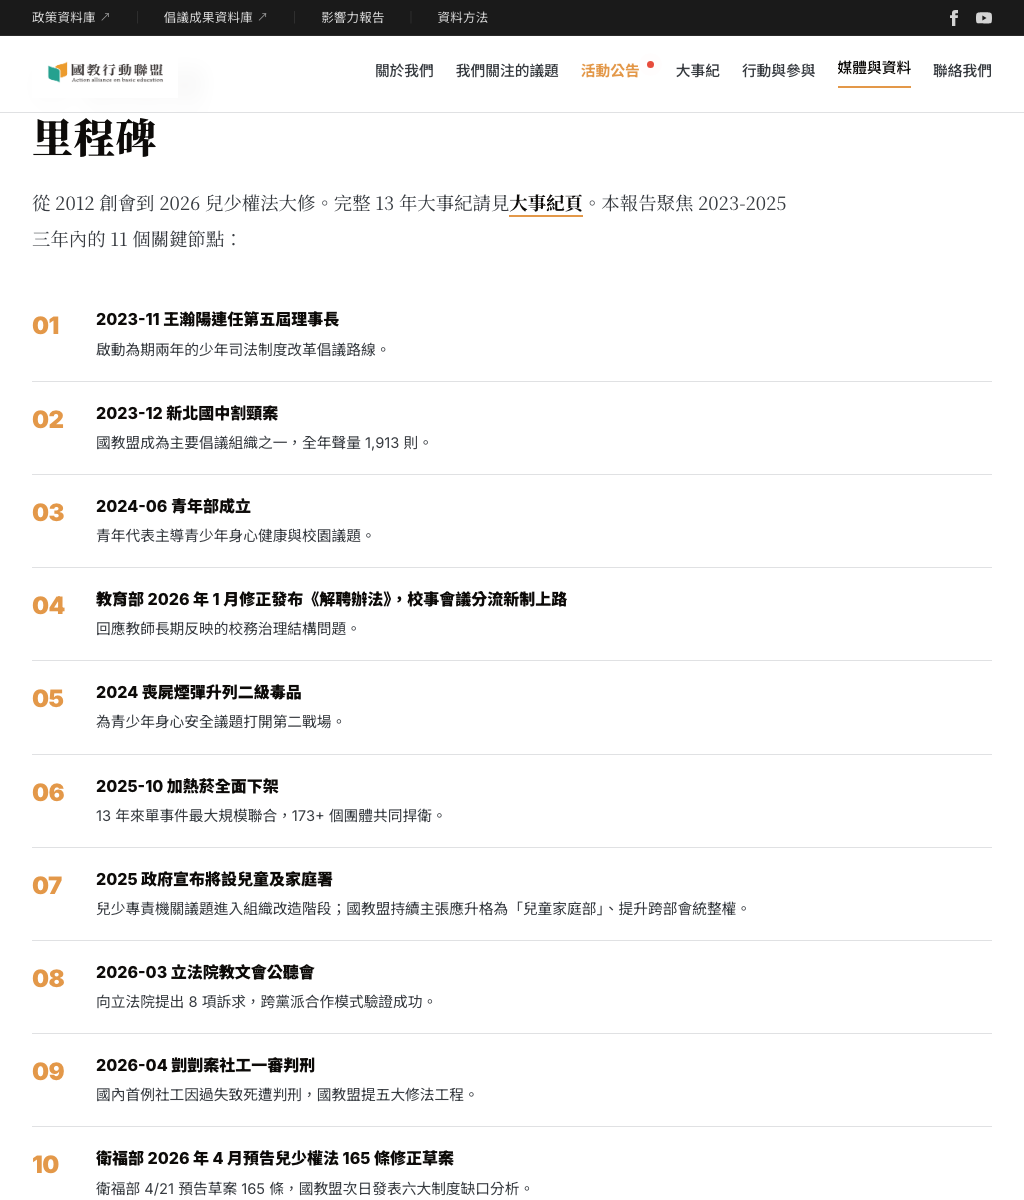
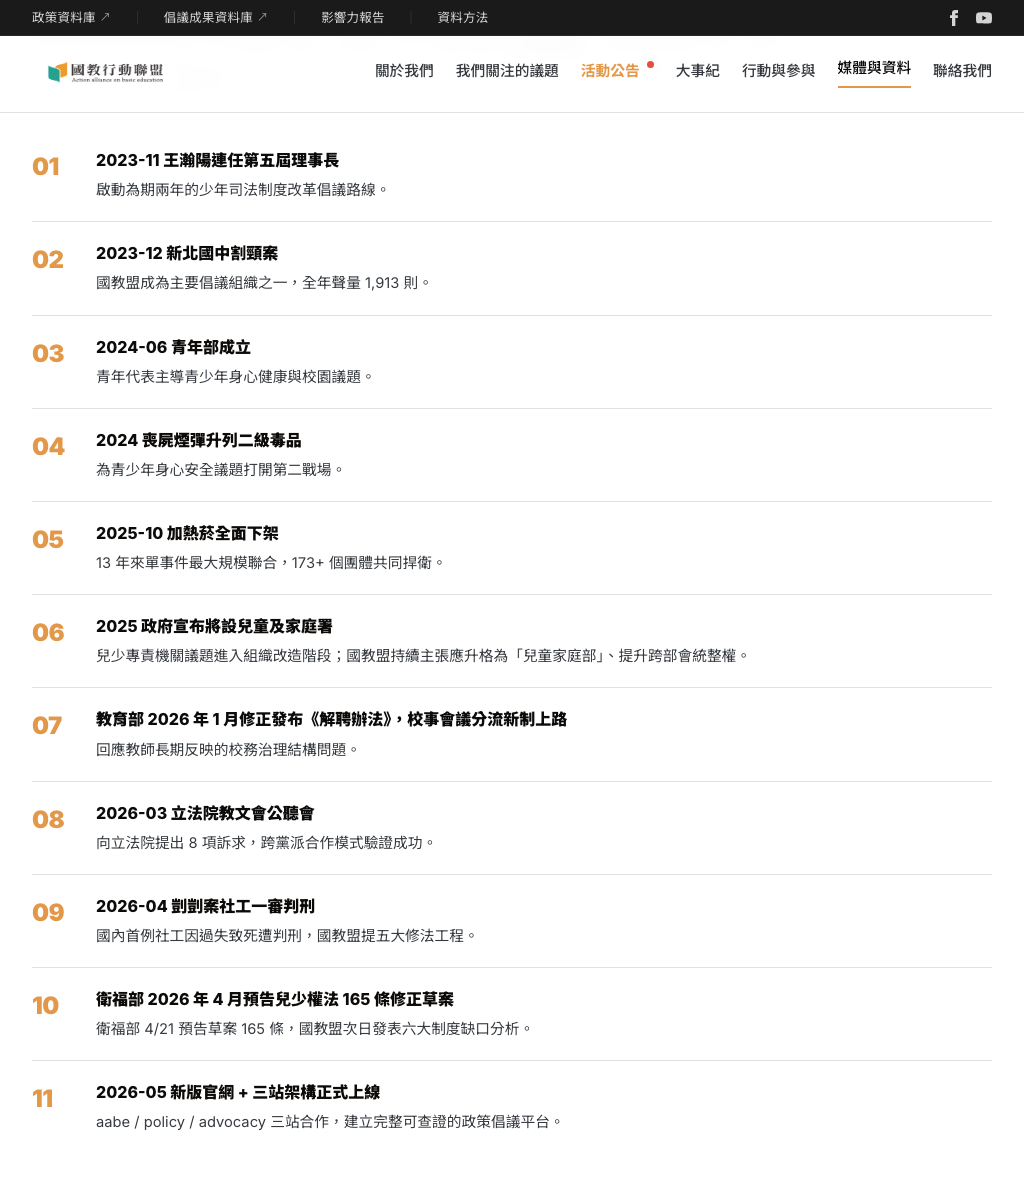
impact: 校事會議敘述七處同步降級並重排里程碑時序
依理事長裁決：impact/index.html 剩餘 7 處「校事會議修法三讀／完成修法
（2024）」同型錯誤，口徑統一改為「教育部 2026 年 1 月修正發布《解聘
辦法》，校事會議分流新制上路」，年份改 2026：

- :8  meta description「校事會議修法」→「校事會議分流新制」
- :551 影響力報告 lead「校事會議完成修法」→「校事會議分流新制上路」
- :606 Ch01 導言「這條路串接起 2024 校事會議修法、2025 加熱菸下架」
  →「這條路串接起 2025 加熱菸下架、2026 年校事會議分流新制」
  （順帶把子句改成時間單調：2025 在 2026 之前）
- :631-632 年度敘事卡「2024」card：查無 2024 年校事會議倡議活動紀錄
  （本盟該案首倡於 2025-11-19），故不強行掛上 2026 年事實到 2024
  年度卡——直接移除該卡對校事會議的提及，標題改「喪屍煙彈升二級
  毒品．青年部成立」，內文只留 2024 年確有發生的兩件事（喪屍煙彈
  升列二級毒品、6 月青年部成立），避免無中生有
- :749 六大議題卡摘要「2024 完成校事會議修法」→「教育部 2026 年 1 月
  修正發布《解聘辦法》，校事會議分流新制上路」
- :751 六大議題卡條列「校事會議修法三讀通過（2024）」→「教育部修正
  發布《解聘辦法》，校事會議分流新制上路（2026）」

里程碑清單（Ch05，11 個節點）重新依實際日期排序，讓時間單調遞增，
編號跟著調（原 04 移到 07，其餘不動）：
01 2023-11 王瀚陽連任第五屆理事長
02 2023-12 新北國中割頸案
03 2024-06 青年部成立
04 2024    喪屍煙彈升列二級毒品
05 2025-10 加熱菸全面下架
06 2025    政府宣布將設兒童及家庭署
07 2026-01 教育部修正發布《解聘辦法》，校事會議分流新制上路（原 04）
08 2026-03 立法院教文會公聽會
09 2026-04 剴剴案社工一審判刑
10 2026-04 衛福部預告兒少權法 165 條修正草案
11 2026-05 新版官網 + 三站架構正式上線

已驗證：pytest 158 passed（deselect
test_markup.py::test_copy_text_untouched[index.html] 與
[impact/index.html] 同前兩條）；numbers_check.py --root public 全部
相符（本輪未觸及任何 numbers.json 追蹤的數字上下文，未需
--update-allowlist）；JSON-LD 2/2 區塊仍為合法 JSON；`<li>` 標籤數與
改動前一致（44 開/36 閉，HTML5 選擇性閉合標籤，非本次引入）；里程碑
清單與 2024 年度卡截圖見
_source/審查/第一批截圖/impact_里程碑清單.png、impact_2024年度卡.png。
沒驗：里程碑清單以外，頁面是否還有其他隱性依賴原 01-11 順序的錨點
連結（例如 #chronology 這類跳轉），未逐一排查。

diff --git a/public/impact/index.html b/public/impact/index.html
@@ -5,7 +5,7 @@
   <meta name="viewport" content="width=device-width, initial-scale=1">
 
   <title>2023-2025 影響力報告｜國教行動聯盟 Impact Report</title>
-  <meta name="description" content="國教行動聯盟（AABE）2023-2025 三年完整影響力報告：168+ 合作組織、113 篇新聞稿、286 場行動、7,917+ 媒體聲量、19 位跨黨派立委合作。從新北割頸案、校事會議修法、加熱菸下架、兒少專責機關組改，到兒少權法 15 年大修。">
+  <meta name="description" content="國教行動聯盟（AABE）2023-2025 三年完整影響力報告：168+ 合作組織、113 篇新聞稿、286 場行動、7,917+ 媒體聲量、19 位跨黨派立委合作。從新北割頸案、校事會議分流新制、加熱菸下架、兒少專責機關組改，到兒少權法 15 年大修。">
   <meta name="keywords" content="國教行動聯盟,AABE,影響力報告,2023-2025,Impact Report,倡議成果,新北割頸案,校事會議,加熱菸,兒童家庭部">
   <meta name="robots" content="index,follow,max-image-preview:large">
 
@@ -548,7 +548,7 @@
     <span class="kicker">Impact Report · 2023 — 2025</span>
     <h1>從沉默<br>到<span class="accent">改變</span></h1>
     <div class="subtitle">A Three-Year Impact Report</div>
-    <p class="lead">三年內，新北割頸案震驚社會、校事會議完成修法、加熱菸全面下架、政府宣布將設兒童及家庭署、向立法院提出 8 項訴求、兒少權法迎來 15 年大修。<strong>家庭擔憂如何轉化為國家政策？</strong>這份報告，是 168+ 個跨領域組織、113 篇新聞稿、286 場行動、7,917+ 則媒體聲量共同寫成的答案。</p>
+    <p class="lead">三年內，新北割頸案震驚社會、校事會議分流新制上路、加熱菸全面下架、政府宣布將設兒童及家庭署、向立法院提出 8 項訴求、兒少權法迎來 15 年大修。<strong>家庭擔憂如何轉化為國家政策？</strong>這份報告，是 168+ 個跨領域組織、113 篇新聞稿、286 場行動、7,917+ 則媒體聲量共同寫成的答案。</p>
     <div class="meta">2026-05-14 發布 · 涵蓋 2023.01 — 2025.12</div>
   </section>
 
@@ -603,7 +603,7 @@
       <span class="ch-title">Three-Year Story</span>
     </div>
     <h2>從危機<span class="accent">到改革</span><br>三年的政策轉化路徑</h2>
-    <p class="intro">2023 年是轉折點。王瀚陽連任第五屆理事長後兩個月，<strong>新北國中割頸案</strong>震驚社會。國教盟啟動為期兩年的少年司法制度改革倡議——這條路串接起 2024 校事會議修法、2025 加熱菸下架，最終在 2026 兒少權法 15 年大修中累積為制度性改變。</p>
+    <p class="intro">2023 年是轉折點。王瀚陽連任第五屆理事長後兩個月，<strong>新北國中割頸案</strong>震驚社會。國教盟啟動為期兩年的少年司法制度改革倡議——這條路串接起 2025 加熱菸下架、2026 年校事會議分流新制，最終在 2026 兒少權法 15 年大修中累積為制度性改變。</p>
 
     <div class="year-narrative">
       <div>
@@ -628,8 +628,8 @@
         <div class="yn-tagline">爆發成長 · +42%</div>
       </div>
       <div class="yn-body">
-        <h3>校事會議修法 · 喪屍煙彈升二級毒品</h3>
-        <p>2024 是國教盟「議題成熟期」。<strong>校事會議修法三讀通過</strong>，回應教師長期反映的校務治理結構問題；同年成功推動<strong>喪屍煙彈升列二級毒品</strong>，為「青少年身心安全」議題打開第二戰場。</p>
+        <h3>喪屍煙彈升二級毒品 · 青年部成立</h3>
+        <p>2024 是國教盟「議題成熟期」。成功推動<strong>喪屍煙彈升列二級毒品</strong>，為「青少年身心安全」議題打開第二戰場。</p>
         <p>全年 39 篇新聞稿、媒體聲量達 2,722 則（+42%）。6 月青年部成立，由青少年代表主導青少年身心健康與校園議題，組織形態正式從「家長為主」擴展為「家長 + 青年」雙軌。</p>
         <div class="yn-stats">
           <div class="yn-stat-mini"><div class="n">2,722</div><div class="l">媒體聲量 +42%</div></div>
@@ -746,9 +746,9 @@
 
       <div class="topic-result">
         <h3>教師與校務</h3>
-        <p class="tr-summary">2024 完成校事會議修法是這條軸線的重要成果。學生輔導法、教師申訴持續追蹤。</p>
+        <p class="tr-summary">教育部 2026 年 1 月修正發布《解聘辦法》，校事會議分流新制上路，是這條軸線的重要成果。學生輔導法、教師申訴持續追蹤。</p>
         <ul>
-          <li><strong>校事會議修法</strong>三讀通過（2024）</li>
+          <li>教育部修正發布《解聘辦法》，<strong>校事會議分流新制</strong>上路（2026）</li>
           <li>學生輔導法三讀</li>
           <li>校園民主參與機制推進</li>
         </ul>
@@ -811,23 +811,23 @@
       </li>
       <li style="counter-increment:item;padding:18px 0 18px 64px;position:relative;border-bottom:1px solid var(--line);">
         <span style="position:absolute;left:0;top:18px;font-family:'Inter';font-size:1.5rem;font-weight:900;color:var(--brand-orange);letter-spacing:-0.02em;">04</span>
-        <div style="font-weight:800;margin-bottom:4px;">教育部 2026 年 1 月修正發布《解聘辦法》，校事會議分流新制上路</div>
-        <div style="color:var(--ink-2);font-size:0.92rem;line-height:1.7;">回應教師長期反映的校務治理結構問題。</div>
-      </li>
-      <li style="counter-increment:item;padding:18px 0 18px 64px;position:relative;border-bottom:1px solid var(--line);">
-        <span style="position:absolute;left:0;top:18px;font-family:'Inter';font-size:1.5rem;font-weight:900;color:var(--brand-orange);letter-spacing:-0.02em;">05</span>
         <div style="font-weight:800;margin-bottom:4px;">2024 喪屍煙彈升列二級毒品</div>
         <div style="color:var(--ink-2);font-size:0.92rem;line-height:1.7;">為青少年身心安全議題打開第二戰場。</div>
       </li>
       <li style="counter-increment:item;padding:18px 0 18px 64px;position:relative;border-bottom:1px solid var(--line);">
-        <span style="position:absolute;left:0;top:18px;font-family:'Inter';font-size:1.5rem;font-weight:900;color:var(--brand-orange);letter-spacing:-0.02em;">06</span>
+        <span style="position:absolute;left:0;top:18px;font-family:'Inter';font-size:1.5rem;font-weight:900;color:var(--brand-orange);letter-spacing:-0.02em;">05</span>
         <div style="font-weight:800;margin-bottom:4px;">2025-10 加熱菸全面下架</div>
         <div style="color:var(--ink-2);font-size:0.92rem;line-height:1.7;">13 年來單事件最大規模聯合，173+ 個團體共同捍衛。</div>
       </li>
       <li style="counter-increment:item;padding:18px 0 18px 64px;position:relative;border-bottom:1px solid var(--line);">
-        <span style="position:absolute;left:0;top:18px;font-family:'Inter';font-size:1.5rem;font-weight:900;color:var(--brand-orange);letter-spacing:-0.02em;">07</span>
+        <span style="position:absolute;left:0;top:18px;font-family:'Inter';font-size:1.5rem;font-weight:900;color:var(--brand-orange);letter-spacing:-0.02em;">06</span>
         <div style="font-weight:800;margin-bottom:4px;">2025 政府宣布將設兒童及家庭署</div>
         <div style="color:var(--ink-2);font-size:0.92rem;line-height:1.7;">兒少專責機關議題進入組織改造階段；國教盟持續主張應升格為「兒童家庭部」、提升跨部會統整權。</div>
+      </li>
+      <li style="counter-increment:item;padding:18px 0 18px 64px;position:relative;border-bottom:1px solid var(--line);">
+        <span style="position:absolute;left:0;top:18px;font-family:'Inter';font-size:1.5rem;font-weight:900;color:var(--brand-orange);letter-spacing:-0.02em;">07</span>
+        <div style="font-weight:800;margin-bottom:4px;">教育部 2026 年 1 月修正發布《解聘辦法》，校事會議分流新制上路</div>
+        <div style="color:var(--ink-2);font-size:0.92rem;line-height:1.7;">回應教師長期反映的校務治理結構問題。</div>
       </li>
       <li style="counter-increment:item;padding:18px 0 18px 64px;position:relative;border-bottom:1px solid var(--line);">
         <span style="position:absolute;left:0;top:18px;font-family:'Inter';font-size:1.5rem;font-weight:900;color:var(--brand-orange);letter-spacing:-0.02em;">08</span>
